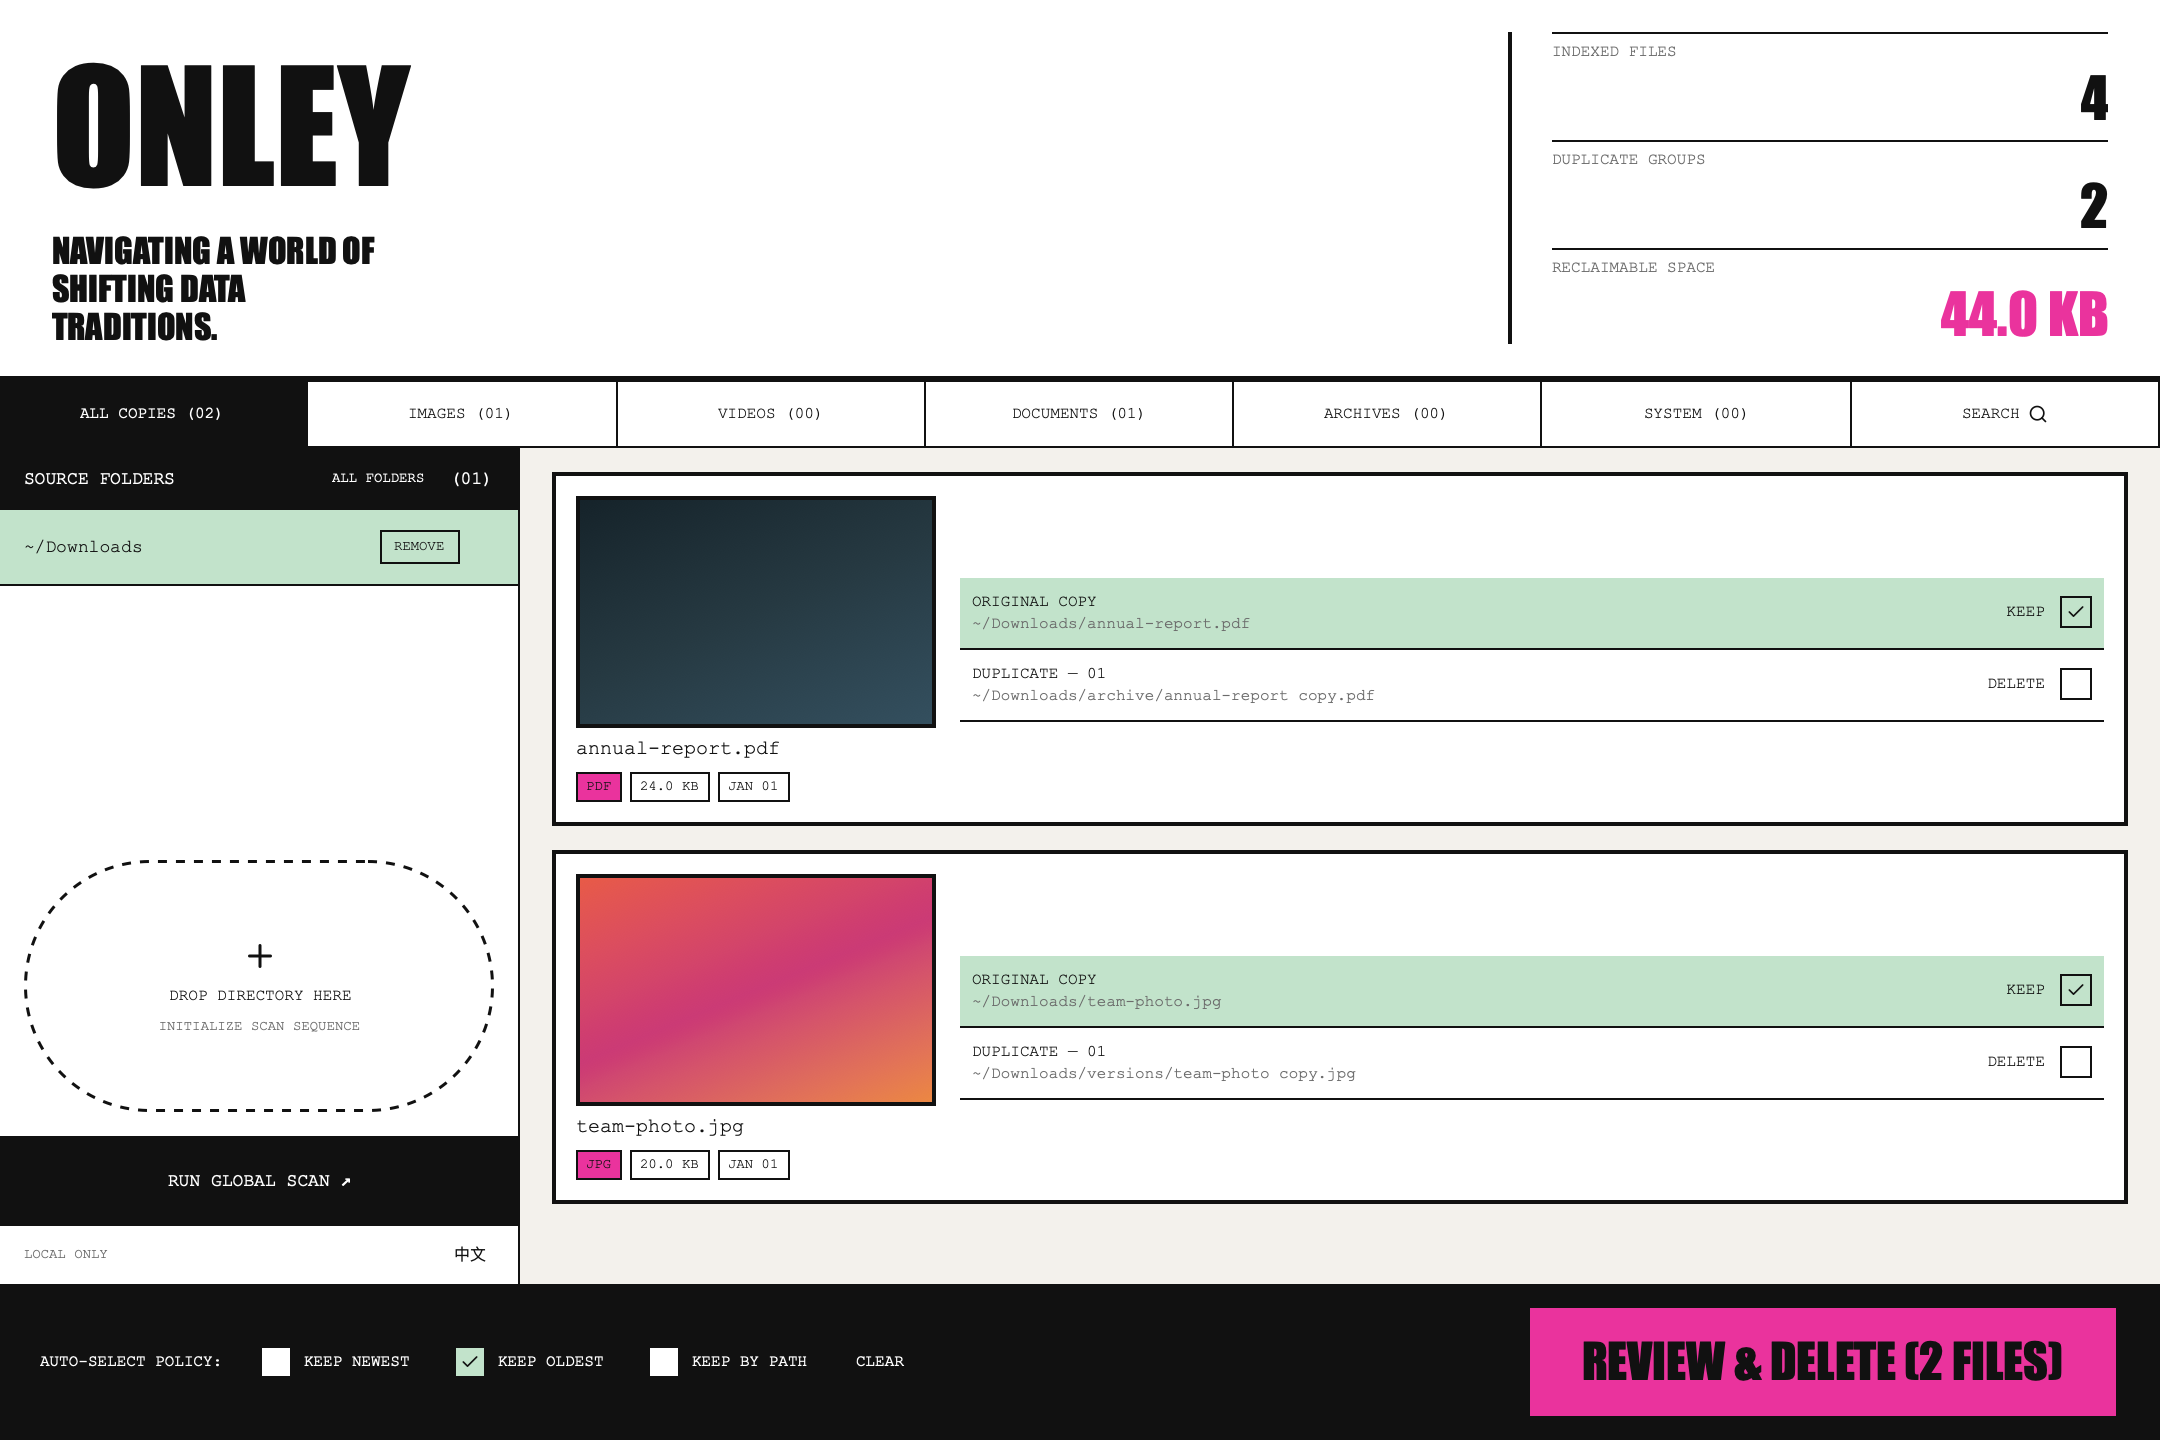
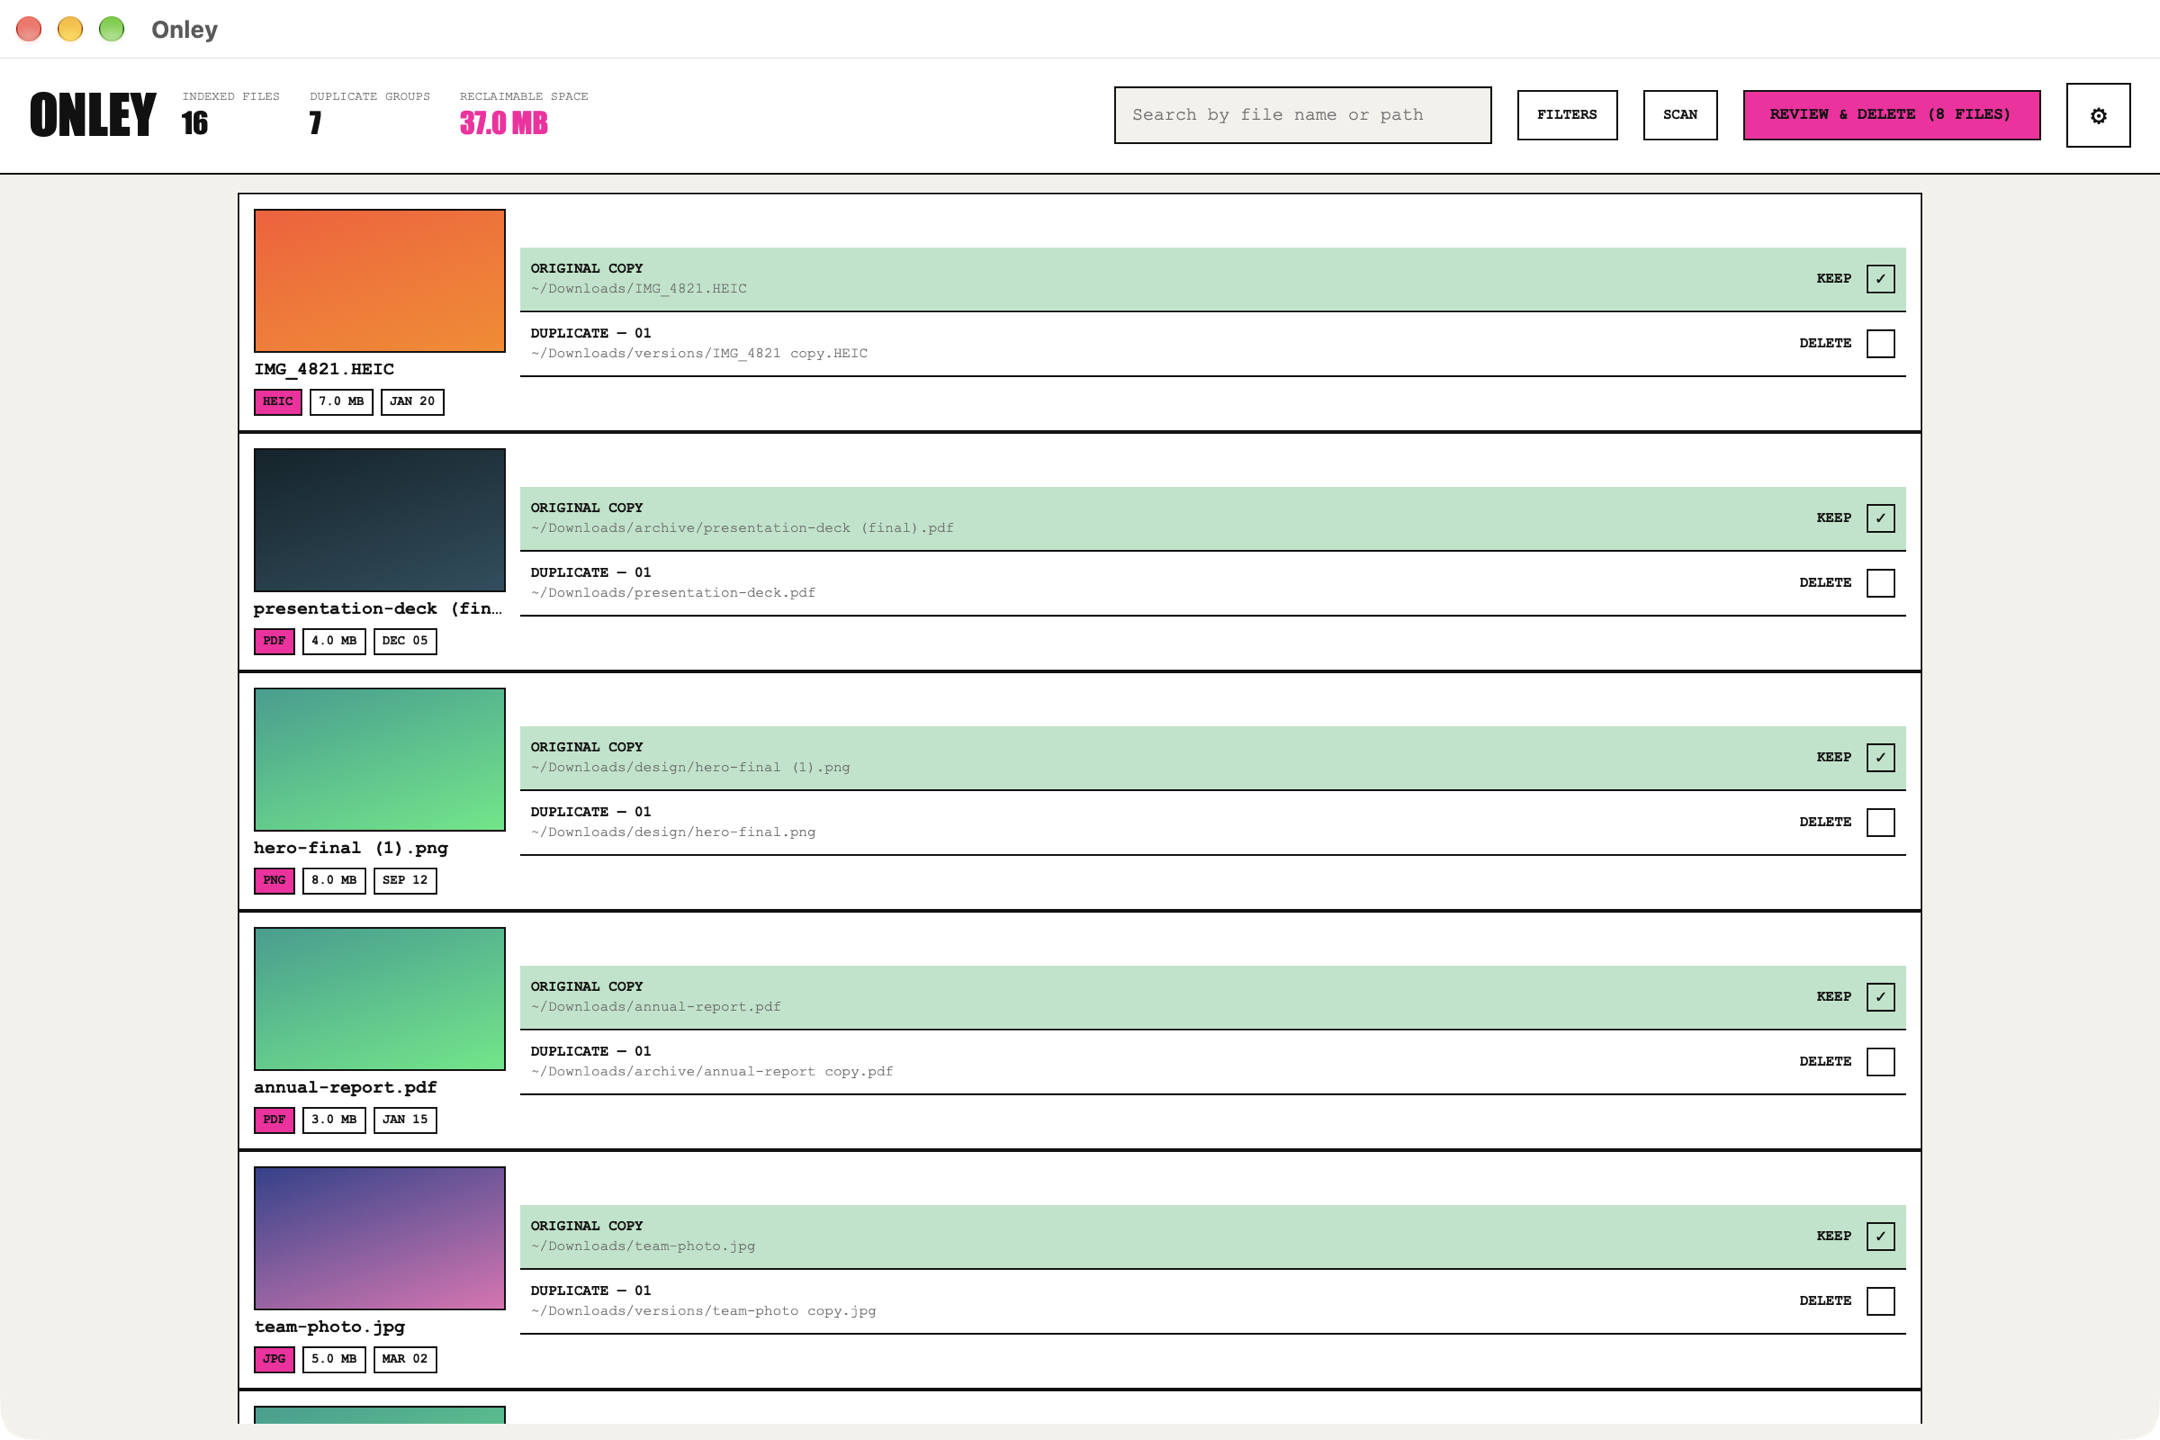
docs: refresh the desktop showcase images (#99)
The hero image showed the old multi-column client. Replace it with captures
of the current single-column app, add localized settings and filters shots,
and show them in a "A closer look" section on both landing pages.

diff --git a/docs/index-zh.html b/docs/index-zh.html
@@ -9,7 +9,7 @@
   <meta property="og:title" content="Onley — 查找并删除重复文件">
   <meta property="og:description" content="仅在本机运行的重复文件查找工具，提供桌面客户端与命令行。">
   <meta property="og:type" content="website">
-  <meta property="og:image" content="https://fdaio.github.io/onley/assets/onley-main.png">
+  <meta property="og:image" content="https://fdaio.github.io/onley/assets/onley-main-zh.png">
   <link rel="alternate" hreflang="en" href="https://fdaio.github.io/onley/">
   <link rel="alternate" hreflang="zh-CN" href="https://fdaio.github.io/onley/index-zh.html">
   <link rel="icon" href="assets/mark.svg" type="image/svg+xml">
@@ -72,7 +72,7 @@
 
       <div class="hero-visual">
         <div class="shot-frame">
-          <img src="assets/onley-main.png" alt="Onley 桌面应用显示重复组，并选中一个要保留的副本" width="2160" height="1440">
+          <img src="assets/onley-main-zh.png" alt="Onley 桌面应用显示重复组，并选中一个要保留的副本" width="2160" height="1440">
         </div>
       </div>
     </section>
@@ -104,6 +104,27 @@
           <h3>保留最新或最旧</h3>
           <p>按修改时间在每组中保留最新或最旧的副本；时间相同时按路径排序。</p>
         </article>
+      </div>
+    </section>
+
+    <section class="section shots">
+      <div class="section-heading center">
+        <p class="eyebrow">细节</p>
+        <h2>先定规则，再选范围。</h2>
+      </div>
+      <div class="shot-grid">
+        <figure class="shot-card">
+          <div class="shot-frame">
+            <img src="assets/onley-settings-zh.png" alt="Onley 设置界面，选中保留最旧并显示语言选择" width="1600" height="1066" loading="lazy">
+          </div>
+          <figcaption>设置：保留最新、保留最旧或按路径保留。扫描中也能切换，扫描结束后再次生效。</figcaption>
+        </figure>
+        <figure class="shot-card">
+          <div class="shot-frame">
+            <img src="assets/onley-filters-zh.png" alt="Onley 筛选界面，显示下载文件夹、文件类型及数量" width="1600" height="1066" loading="lazy">
+          </div>
+          <figcaption>筛选：扫描前选择源文件夹和文件类型。</figcaption>
+        </figure>
       </div>
     </section>
 

diff --git a/docs/index.html b/docs/index.html
@@ -110,6 +110,27 @@
       </div>
     </section>
 
+    <section class="section shots">
+      <div class="section-heading center">
+        <p class="eyebrow">A closer look</p>
+        <h2>Set the rule. Check the folders.</h2>
+      </div>
+      <div class="shot-grid">
+        <figure class="shot-card">
+          <div class="shot-frame">
+            <img src="assets/onley-settings.png" alt="Onley settings with Keep oldest selected and the language choices" width="1600" height="1066" loading="lazy">
+          </div>
+          <figcaption>Settings: keep the newest, the oldest or the first path. The choice applies while a scan runs and again when it ends.</figcaption>
+        </figure>
+        <figure class="shot-card">
+          <div class="shot-frame">
+            <img src="assets/onley-filters.png" alt="Onley filters showing the Downloads folder, file types and their counts" width="1600" height="1066" loading="lazy">
+          </div>
+          <figcaption>Filters: choose source folders and file types before a scan.</figcaption>
+        </figure>
+      </div>
+    </section>
+
     <section class="section cli">
       <div class="cli-copy">
         <h2>Built for power users<br><span>with a command-line interface.</span></h2>

diff --git a/docs/home.css b/docs/home.css
@@ -270,6 +270,20 @@ h1 {
   height: auto;
   border-radius: 11px;
 }
+.shot-grid {
+  display: grid;
+  grid-template-columns: repeat(2, minmax(0, 1fr));
+  gap: 28px;
+}
+.shot-card { margin: 0; }
+.shot-card .shot-frame { box-shadow: 0 20px 50px rgba(0, 0, 0, 0.45); }
+.shot-card figcaption {
+  margin-top: 16px;
+  color: var(--muted);
+  font-family: var(--mono);
+  font-size: 11px;
+  line-height: 1.7;
+}
 
 .section {
   max-width: var(--max);
@@ -595,6 +609,7 @@ h1 {
   .feature-grid { grid-template-columns: minmax(0, 1fr); }
   .feature-card { min-height: 0; }
   .icon-box { margin-bottom: 28px; }
+  .shot-grid { grid-template-columns: minmax(0, 1fr); }
 
   .footer-top {
     grid-template-columns: 1fr 1fr;
